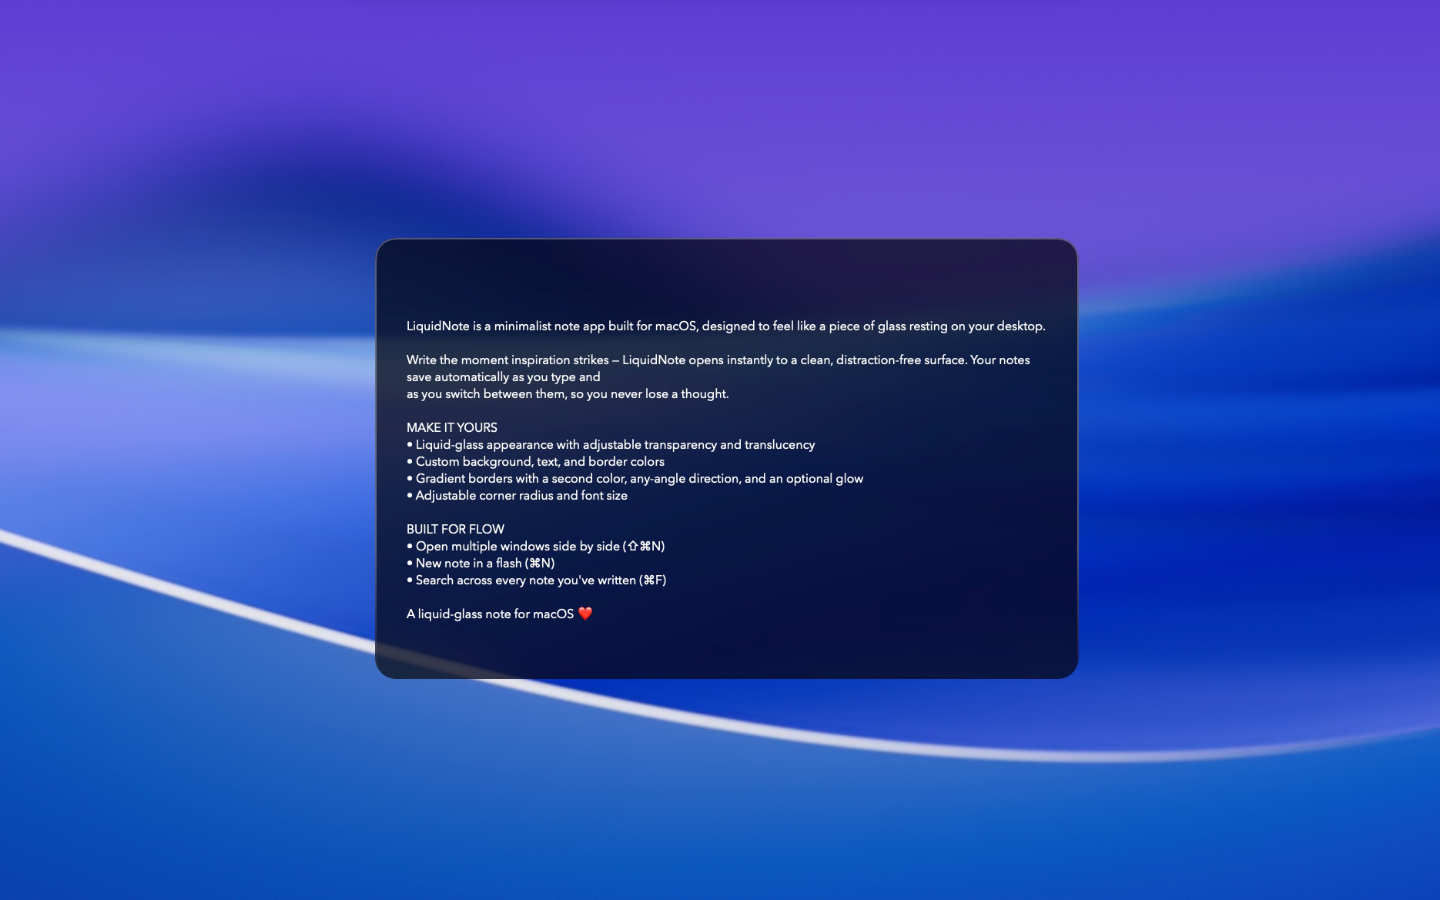
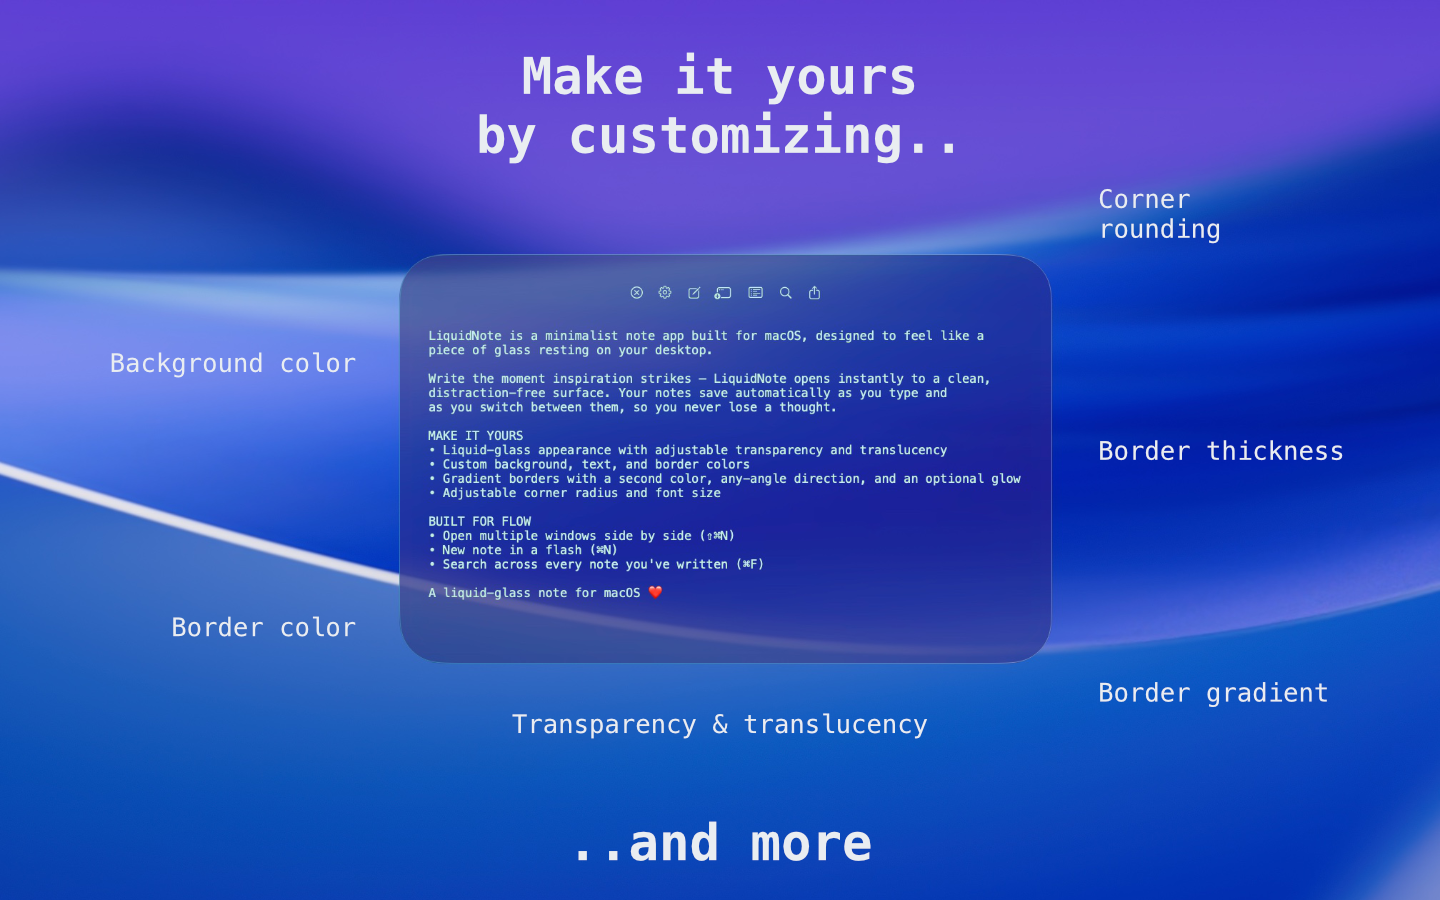
Update site screenshot to new customization demo

diff --git a/index.html b/index.html
@@ -73,7 +73,7 @@
       <img class="badge" src="icon.png?v=2" alt="LiquidNote app icon" width="112" height="112">
       <h1>LiquidNote</h1>
       <p class="tagline">A minimal glass note for macOS.</p>
-      <img class="shot" src="screenshot.png" alt="LiquidNote on macOS">
+      <img class="shot" src="screenshot.png?v=2" alt="LiquidNote on macOS">
     </header>
 
     <section>